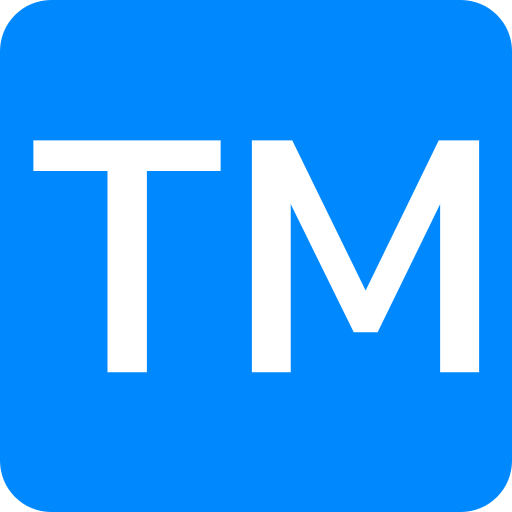
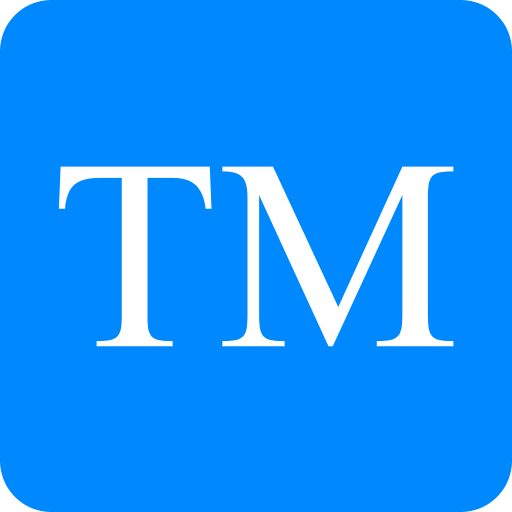
Adiciona Links para ícone  e altera ficicon

Changed region(s): [[0.0625, 0.25, 0.9375, 0.75]]

diff --git a/index.html b/index.html
@@ -4,7 +4,10 @@
     <meta charset="UTF-8" />
     <meta name="viewport" content="width=device-width, initial-scale=1.0" />
     <link rel="stylesheet" href="style.css" />
-    <link rel="icon" href="favicon.ico" />
+    <link rel="apple-touch-icon" sizes="180x180" href="/apple-touch-icon.png" />
+    <link rel="icon" type="image/png" sizes="32x32" href="/favicon-32x32.png" />
+    <link rel="icon" type="image/png" sizes="16x16" href="/favicon-16x16.png" />
+    <link rel="manifest" href="/site.webmanifest" />
     <title>Portifólio</title>
   </head>
   <body>
